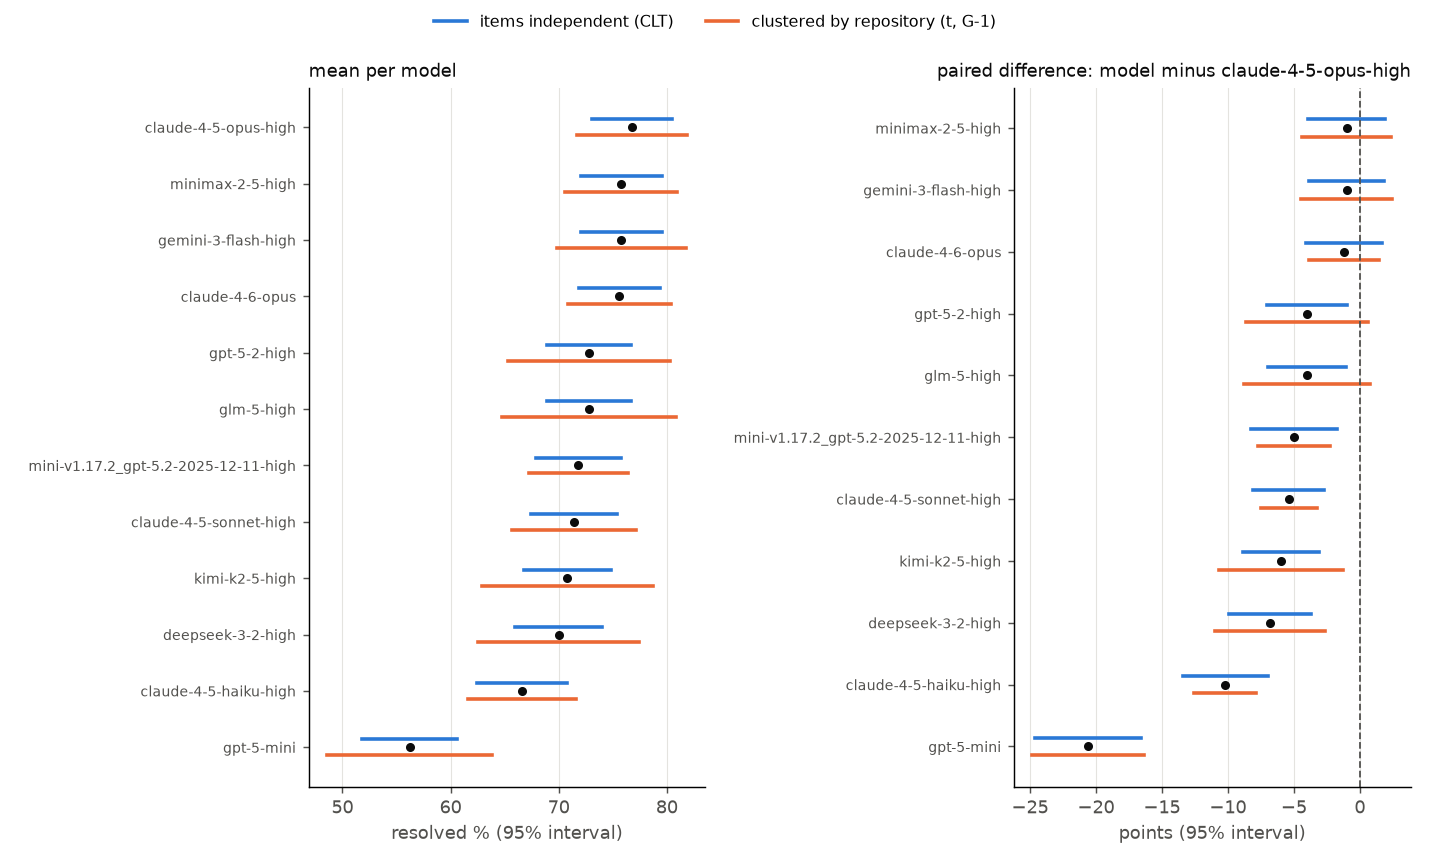
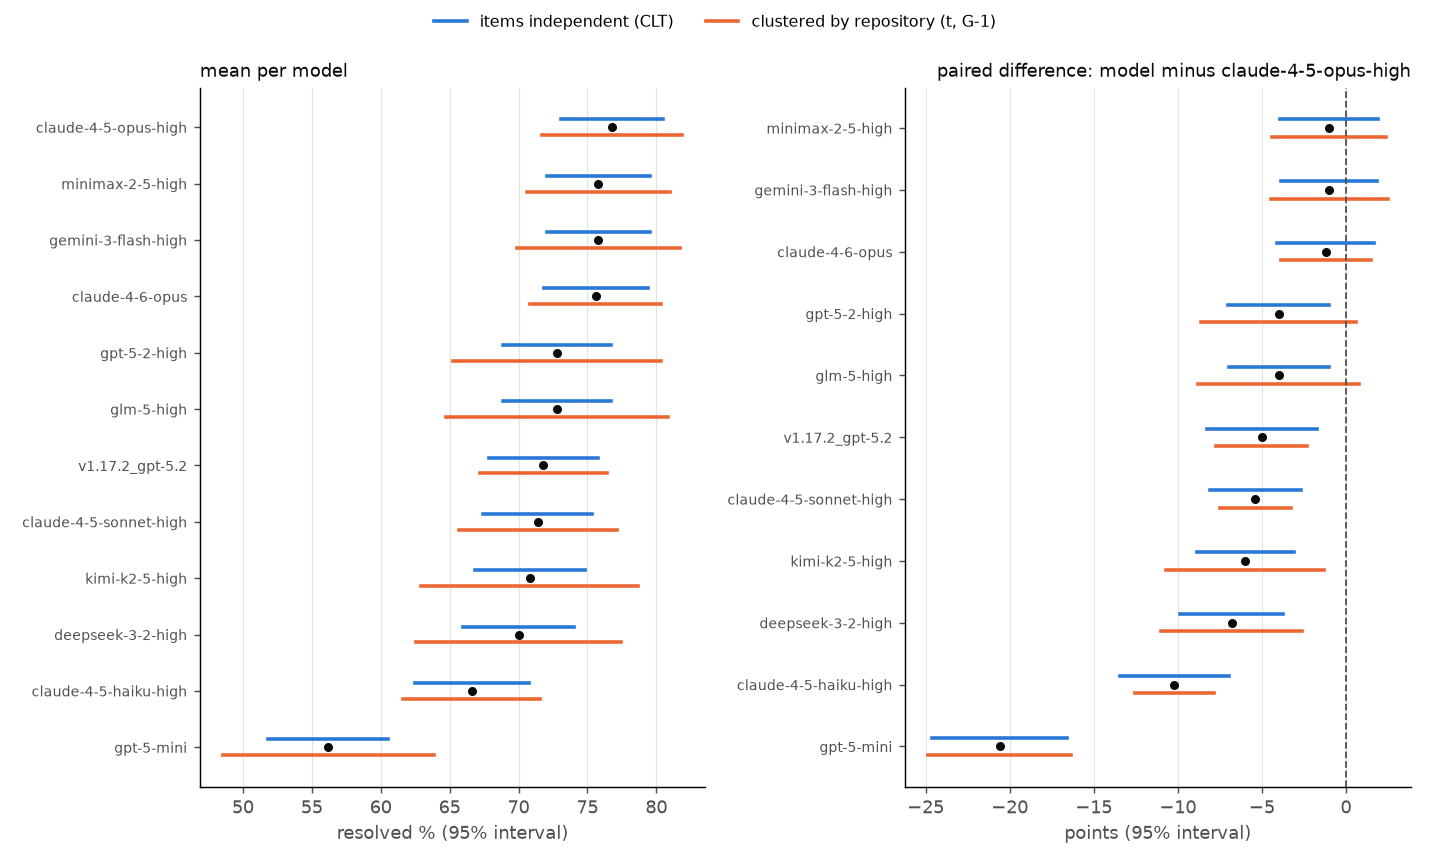
Label the v1.17.2 run in the chart as in the README tables

diff --git a/examples/plot_intervals.py b/examples/plot_intervals.py
@@ -35,7 +35,15 @@ def main(argv: list[str] | None = None) -> int:
     ap.add_argument("path", help="JSONL or CSV results file with prefixed item ids")
     ap.add_argument("--out", required=True, help="PNG file to write")
     ap.add_argument("--strip", default="", help="prefix to drop from model names in labels")
+    ap.add_argument(
+        "--rename",
+        action="append",
+        default=[],
+        metavar="MODEL=LABEL",
+        help="label to show for one model, in place of its name (repeatable)",
+    )
     args = ap.parse_args(argv)
+    renames = dict(r.split("=", 1) for r in args.rename)
 
     models = scores_by_model(read_records(args.path), default_cluster=True)
     rows = []
@@ -53,6 +61,8 @@ def main(argv: list[str] | None = None) -> int:
         diffs.append((name, mean_interval(sa - sb, clusters=cl), mean_interval(sa - sb)))
 
     def label(n: str) -> str:
+        if n in renames:
+            return renames[n]
         return n[len(args.strip) :] if args.strip and n.startswith(args.strip) else n
 
     fig, (left, right) = plt.subplots(1, 2, figsize=(11, 0.42 * len(rows) + 1.6), sharey=False)
